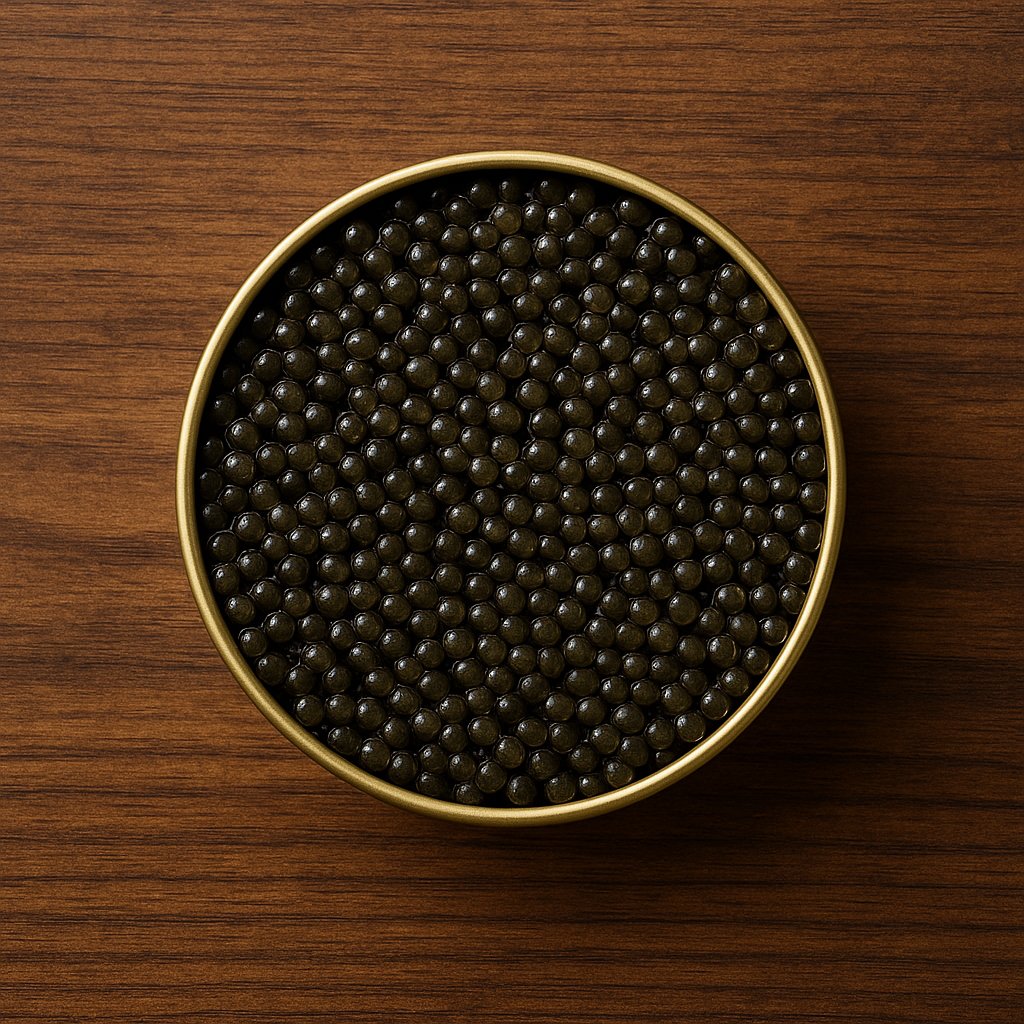
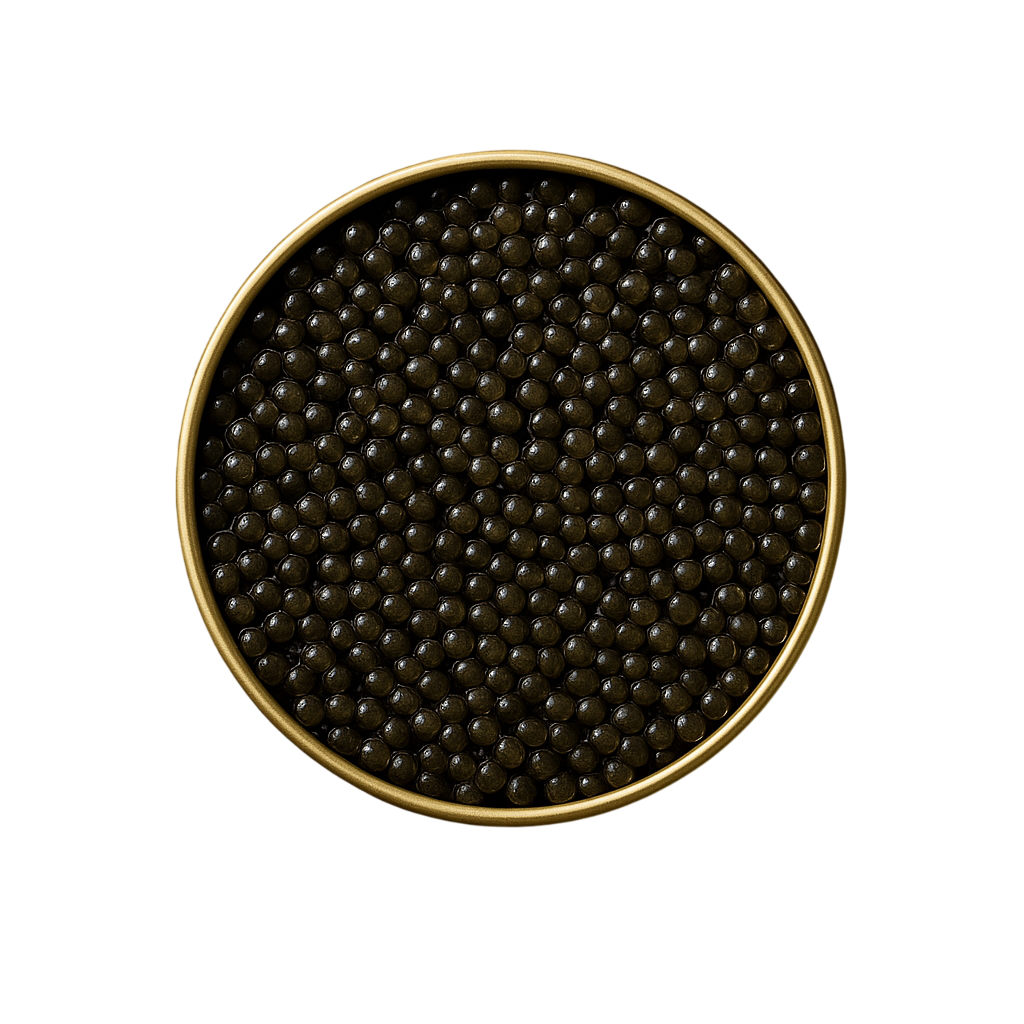
ggs

diff --git a/styles.css b/styles.css
@@ -36,6 +36,11 @@ img {
     object-position: center !important;
 }
 
+/* Spezifische Vergrößerung für Kaviar1neu.webp */
+.caviar-bottom-image[src*="Kaviar1neu.webp"] {
+    transform: scale(1.35) translateY(9px);
+}
+
 /* Lazy loading for gallery images */
 .gallery-img {
     loading: lazy;
@@ -850,6 +855,12 @@ h1, h2, h3, h4, h5, h6 {
     transition: all 0.8s cubic-bezier(0.4, 0, 0.2, 1);
 }
 
+/* Spezielle Hover-Animation für Kaviar1neu.webp - behält die aktuelle Größe bei */
+.caviar-container:hover .caviar-bottom-image[src*="Kaviar1neu.webp"] {
+    transform: scale(1.35) translateY(9px) rotate(-15deg);
+    transition: all 0.8s cubic-bezier(0.4, 0, 0.2, 1);
+}
+
 /* Deckel-Animation nur bei direktem Hover über den Deckel */
 .caviar-lid:hover {
     transform: translateX(30%) translateZ(50px) rotate(45deg);
@@ -864,6 +875,12 @@ h1, h2, h3, h4, h5, h6 {
 @media (max-width: 768px) {
     .caviar-container.animate-mobile .caviar-bottom-image {
         transform: rotate(-15deg);
+        transition: all 0.8s cubic-bezier(0.4, 0, 0.2, 1);
+    }
+    
+    /* Spezielle mobile Animation für Kaviar1neu.webp - behält die Vergrößerung bei */
+    .caviar-container.animate-mobile .caviar-bottom-image[src*="Kaviar1neu.webp"] {
+        transform: scale(1.42) translateY(10px) rotate(-15deg);
         transition: all 0.8s cubic-bezier(0.4, 0, 0.2, 1);
     }
 
@@ -2017,6 +2034,10 @@ h1, h2, h3, h4, h5, h6 {
         width: 50px;
         height: 50px;
         font-size: 1.2rem;
+        padding: 0;
+        background: transparent;
+        border-radius: 0;
+        box-shadow: none;
     }
     
     .toggle-text h4 {
@@ -2059,8 +2080,9 @@ h1, h2, h3, h4, h5, h6 {
     }
     
     .variety-grade {
-        padding: 0.2rem 0.6rem;
+        padding: 0.3rem 0.8rem;
         font-size: 0.7rem;
+        border-radius: 20px;
     }
     
     .detail-item {
@@ -2296,6 +2318,10 @@ h1, h2, h3, h4, h5, h6 {
         width: 45px;
         height: 45px;
         font-size: 1.1rem;
+        padding: 0;
+        background: transparent;
+        border-radius: 0;
+        box-shadow: none;
     }
     
     .toggle-text h4 {
@@ -2337,8 +2363,9 @@ h1, h2, h3, h4, h5, h6 {
     }
     
     .variety-grade {
-        padding: 0.15rem 0.5rem;
+        padding: 0.2rem 0.6rem;
         font-size: 0.65rem;
+        border-radius: 18px;
     }
     
     .detail-item {
@@ -3234,22 +3261,36 @@ html.lenis {
 }
 
 .toggle-icon {
-    width: 60px;
-    height: 60px;
-    background: linear-gradient(135deg, var(--primary-gold), var(--accent-gold));
-    border-radius: 50%;
+    width: 120px;
+    height: 120px;
+    background: transparent;
+    border-radius: 0;
     display: flex;
     align-items: center;
     justify-content: center;
     color: white;
     font-size: 1.5rem;
-    box-shadow: 0 8px 25px rgba(212, 175, 55, 0.3);
+    box-shadow: none;
+    transition: all 0.3s ease;
+    overflow: visible;
+    padding: 0;
+}
+
+.caviar-icon-img {
+    width: 100%;
+    height: 100%;
+    object-fit: contain;
+    border-radius: 0;
     transition: all 0.3s ease;
 }
 
 .caviar-info-toggle:hover .toggle-icon {
-    transform: scale(1.1) rotateY(10deg);
-    box-shadow: 0 12px 35px rgba(212, 175, 55, 0.5);
+    transform: scale(1.05);
+    box-shadow: none;
+}
+
+.caviar-info-toggle:hover .caviar-icon-img {
+    transform: scale(1.05);
 }
 
 .toggle-text {
@@ -3375,15 +3416,59 @@ html.lenis {
 }
 
 .variety-grade {
-    background: linear-gradient(135deg, var(--primary-gold), var(--accent-gold));
-    color: white;
-    padding: 0.3rem 0.8rem;
+    color: var(--text-primary);
+    padding: 0.4rem 1rem;
     border-radius: 20px;
-    font-size: 0.8rem;
+    font-size: 0.75rem;
     font-weight: 600;
     text-transform: uppercase;
     letter-spacing: 0.5px;
-    box-shadow: 0 2px 8px rgba(212, 175, 55, 0.3);
+    position: relative;
+    overflow: hidden;
+    border: 1px solid var(--border-color);
+    background: var(--bg-card);
+    box-shadow: 0 2px 8px var(--shadow-color);
+    transition: all 0.3s ease;
+}
+
+/* Classic Grade - Basic */
+.variety-grade[data-grade="classic"] {
+    background: var(--bg-card);
+    border-color: rgba(212, 175, 55, 0.3);
+    color: var(--text-primary);
+    box-shadow: 0 2px 8px var(--shadow-color);
+}
+
+/* Luxury Grade - Enhanced */
+.variety-grade[data-grade="luxury"] {
+    background: var(--bg-card);
+    border-color: var(--primary-gold);
+    color: var(--text-primary);
+    box-shadow: 0 3px 12px rgba(212, 175, 55, 0.2);
+}
+
+/* Premium Grade - Highest */
+.variety-grade[data-grade="premium"] {
+    background: linear-gradient(135deg, var(--primary-gold), var(--accent-gold));
+    border-color: var(--primary-gold);
+    color: white;
+    box-shadow: 0 4px 15px rgba(212, 175, 55, 0.3);
+}
+
+/* Premium Glow Animation */
+@keyframes premiumGlow {
+    0%, 100% {
+        box-shadow: 
+            0 4px 20px rgba(255, 215, 0, 0.4),
+            0 0 0 1px rgba(255, 215, 0, 0.6),
+            inset 0 1px 0 rgba(255, 255, 255, 0.3);
+    }
+    50% {
+        box-shadow: 
+            0 6px 25px rgba(255, 215, 0, 0.6),
+            0 0 0 2px rgba(255, 215, 0, 0.8),
+            inset 0 1px 0 rgba(255, 255, 255, 0.4);
+    }
 }
 
 .variety-details {
@@ -3434,6 +3519,29 @@ html.lenis {
     background: linear-gradient(135deg, 
         rgba(212, 175, 55, 0.02) 0%, 
         rgba(255, 255, 255, 0.05) 100%);
+}
+
+/* Desktop Layout: 2+1 Grid */
+@media (min-width: 769px) {
+    .caviar-additional-info {
+        grid-template-columns: 1fr 1fr;
+        grid-template-rows: auto auto;
+        gap: 1.5rem 2rem;
+        justify-items: center;
+    }
+    
+    .info-card:nth-child(1),
+    .info-card:nth-child(2) {
+        grid-column: span 1;
+        grid-row: 1;
+    }
+    
+    .info-card:nth-child(3) {
+        grid-column: 1 / -1;
+        grid-row: 2;
+        max-width: 400px;
+        justify-self: center;
+    }
 }
 
 .info-card {
@@ -3566,6 +3674,35 @@ html.lenis {
 
 [data-theme="dark"] .info-card p {
     color: rgba(255, 255, 255, 0.8);
+}
+
+/* Dark Mode Grade Badges */
+[data-theme="dark"] .variety-grade {
+    background: rgba(26, 26, 26, 0.8);
+    border-color: rgba(212, 175, 55, 0.3);
+    color: rgba(255, 255, 255, 0.9);
+    box-shadow: 0 2px 8px rgba(0, 0, 0, 0.3);
+}
+
+[data-theme="dark"] .variety-grade[data-grade="classic"] {
+    background: rgba(26, 26, 26, 0.8);
+    border-color: rgba(212, 175, 55, 0.3);
+    color: rgba(255, 255, 255, 0.9);
+    box-shadow: 0 2px 8px rgba(0, 0, 0, 0.3);
+}
+
+[data-theme="dark"] .variety-grade[data-grade="luxury"] {
+    background: rgba(26, 26, 26, 0.8);
+    border-color: rgba(212, 175, 55, 0.4);
+    color: rgba(255, 255, 255, 0.9);
+    box-shadow: 0 3px 12px rgba(212, 175, 55, 0.3);
+}
+
+[data-theme="dark"] .variety-grade[data-grade="premium"] {
+    background: linear-gradient(135deg, var(--primary-gold), var(--accent-gold));
+    border-color: var(--primary-gold);
+    color: white;
+    box-shadow: 0 4px 15px rgba(212, 175, 55, 0.4);
 }
 
 /* Custom Scrollbar */

diff --git a/index.html b/index.html
@@ -222,7 +222,7 @@
                 <div class="caviar-container">
                     <!-- Unteres Kaviarbild (wird beim Scrollen sichtbar) -->
                     <div class="caviar-bottom">
-                        <img src="./Kaviar-02.webp" alt="Premium Caviar" class="caviar-bottom-image" fetchpriority="high">
+                        <img src="./Kaviar1neu.webp" alt="Premium Caviar" class="caviar-bottom-image" fetchpriority="high">
                     </div>
                     
                     <!-- Kaviardeckel (öffnet sich beim Scrollen) -->
@@ -285,7 +285,7 @@
                         <button class="caviar-info-toggle" onclick="toggleCaviarInfo()">
                             <div class="toggle-content">
                                 <div class="toggle-icon">
-                                    <i class="fas fa-gem"></i>
+                                    <img src="./Kaviar1.webp" alt="Premium Caviar" class="caviar-icon-img">
                                 </div>
                                 <div class="toggle-text">
                                     <h4 data-de="Premium Caviar Details" data-en="Premium Caviar Details">Premium Caviar Details</h4>
@@ -306,7 +306,7 @@
                                             <i class="fas fa-crown"></i>
                                         </div>
                                         <h5>Beluga Caviar</h5>
-                                        <span class="variety-grade">Premium</span>
+                                        <span class="variety-grade" data-grade="premium">Premium</span>
                                     </div>
                                     <div class="variety-details">
                                         <div class="detail-item">
@@ -344,7 +344,7 @@
                                             <i class="fas fa-gem"></i>
                                         </div>
                                         <h5>Osetra Caviar</h5>
-                                        <span class="variety-grade">Luxury</span>
+                                        <span class="variety-grade" data-grade="luxury">Luxury</span>
                                     </div>
                                     <div class="variety-details">
                                         <div class="detail-item">
@@ -382,7 +382,7 @@
                                             <i class="fas fa-diamond"></i>
                                         </div>
                                         <h5>Sevruga Caviar</h5>
-                                        <span class="variety-grade">Classic</span>
+                                        <span class="variety-grade" data-grade="classic">Classic</span>
                                     </div>
                                     <div class="variety-details">
                                         <div class="detail-item">

diff --git a/script.js b/script.js
@@ -1217,6 +1217,7 @@ function toggleCaviarInfo() {
     if (!toggleButton || !content || !arrow) return;
     
     const isExpanded = toggleButton.classList.contains('expanded');
+    const isMobile = window.innerWidth <= 768;
     
     if (isExpanded) {
         // Collapse
@@ -1225,13 +1226,15 @@ function toggleCaviarInfo() {
         content.style.opacity = '0';
         arrow.style.transform = 'rotate(0deg)';
         
-        // Smooth scroll to keep the toggle button in view
-        setTimeout(() => {
-            toggleButton.scrollIntoView({ 
-                behavior: 'smooth', 
-                block: 'center' 
-            });
-        }, 100);
+        // Only scroll on mobile when collapsing
+        if (isMobile) {
+            setTimeout(() => {
+                toggleButton.scrollIntoView({ 
+                    behavior: 'smooth', 
+                    block: 'center' 
+                });
+            }, 100);
+        }
     } else {
         // Expand
         toggleButton.classList.add('expanded');
@@ -1251,14 +1254,16 @@ function toggleCaviarInfo() {
         content.style.opacity = '1';
         arrow.style.transform = 'rotate(180deg)';
         
-        // Smooth scroll to show the expanded content
-        setTimeout(() => {
-            content.scrollIntoView({ 
-                behavior: 'smooth', 
-                block: 'start',
-                inline: 'nearest'
-            });
-        }, 300);
+        // Only scroll on mobile when expanding
+        if (isMobile) {
+            setTimeout(() => {
+                content.scrollIntoView({ 
+                    behavior: 'smooth', 
+                    block: 'start',
+                    inline: 'nearest'
+                });
+            }, 300);
+        }
     }
 }
 
